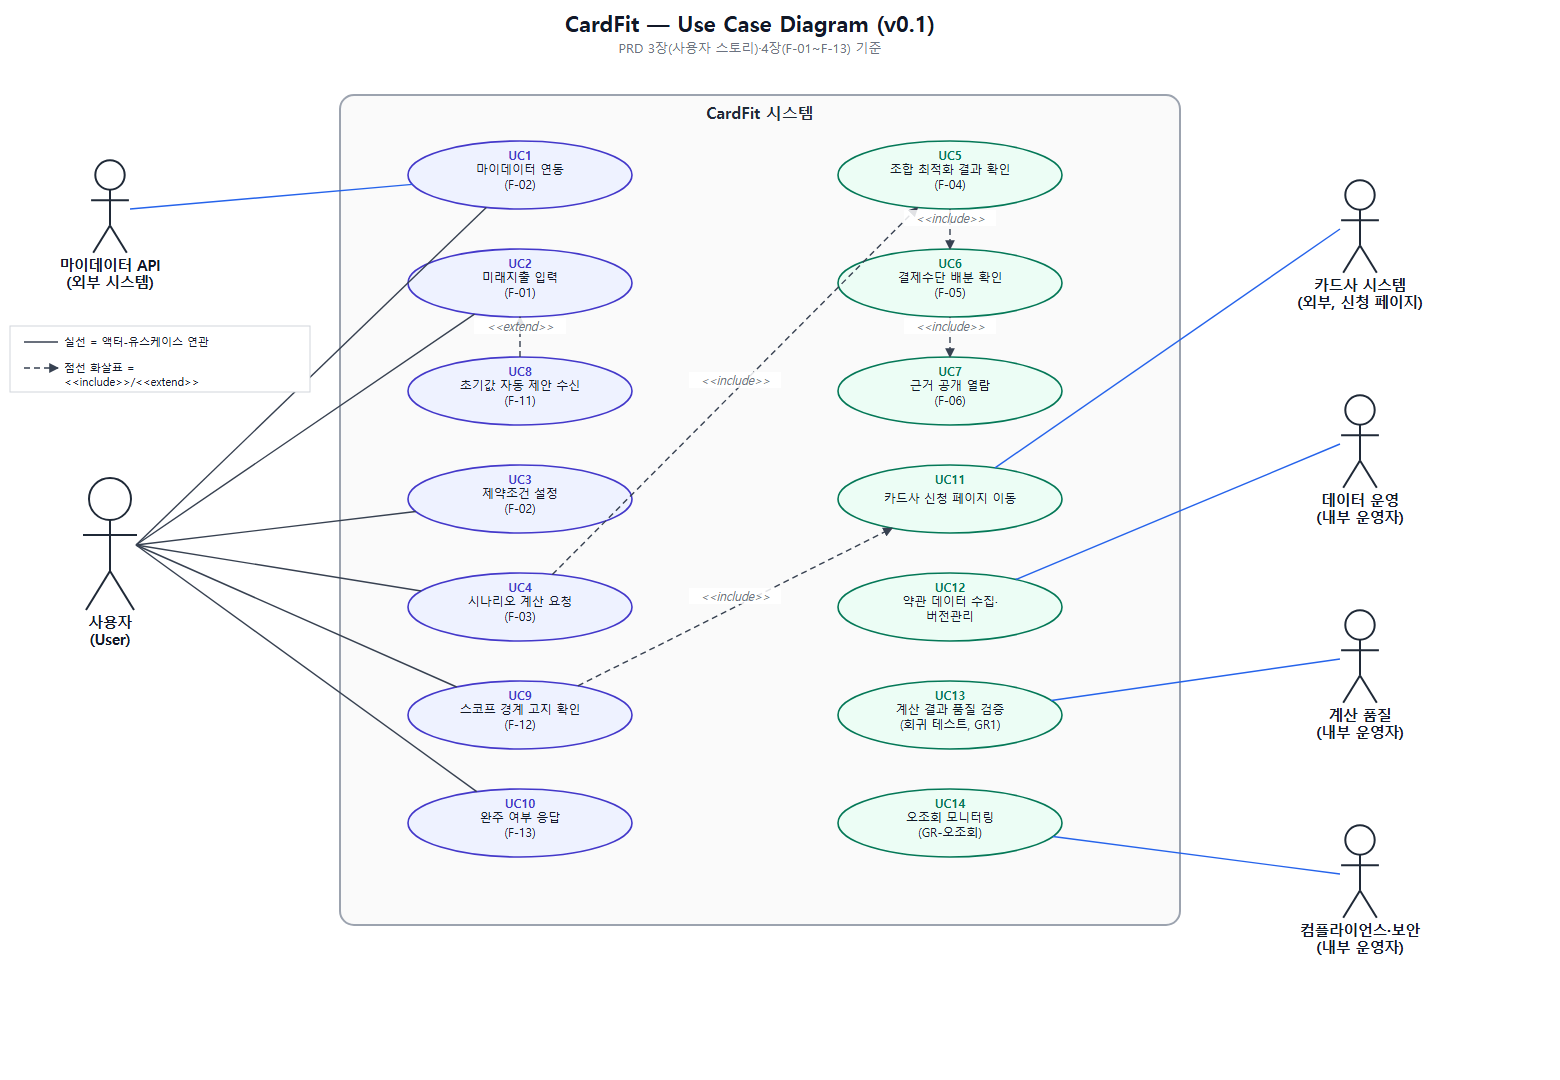
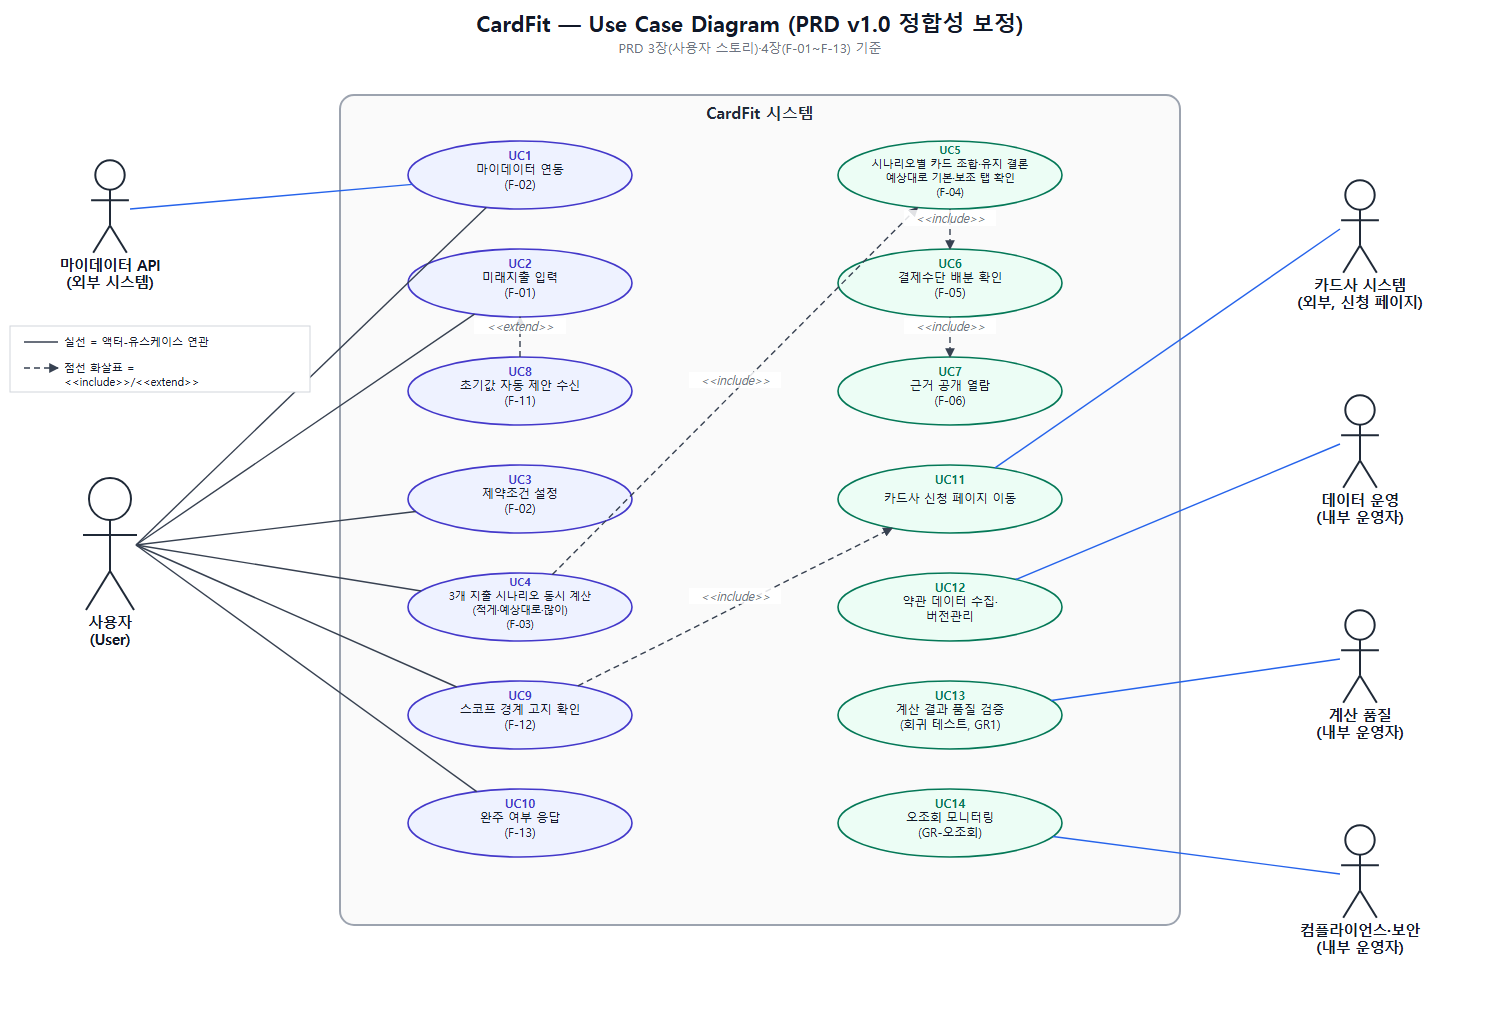
docs: align PRD diagrams with scenario model

diff --git a/PRD_CardFit_v1.0.md b/PRD_CardFit_v1.0.md
@@ -120,9 +120,10 @@ journey
       서비스 인지: 3: 이서연
     section 입력·계산
       온보딩·입력 (F-01·F-02): 2: 이서연
-      계산 결과·근거 확인 (F-03·F-06): 4: 이서연
+      3개 시나리오 동시 계산 (F-03): 4: 이서연
     section 결정·실행
-      신규카드 포함안 비교 (F-04): 3: 이서연
+      예상대로 기본·보조 탭 비교 (F-04): 3: 이서연
+      시나리오별 근거 확인 (F-06): 4: 이서연
       실행 - 스코프 경계: 3: 이서연
     section 이후
       다음 달 실제 혜택 확인: 5: 이서연
@@ -145,7 +146,7 @@ journey
 
 ### Use Case Diagram
 
-아래 4장(기능 요구사항)의 F-01~F-13과 3장 사용자 스토리(US-A~US-F)를 액터·유스케이스 관계로 정리한 다이어그램이다. 실선은 액터-유스케이스 연관, 점선 화살표는 `<<include>>`/`<<extend>>` 관계를 의미한다.
+아래 4장(기능 요구사항)의 F-01~F-13과 3장 사용자 스토리(US-A~US-F)를 액터·유스케이스 관계로 정리한 다이어그램이다. UC4는 3개 지출 시나리오의 동시 계산, UC5는 시나리오별 독립 카드 조합·유지 결론과 탭 확인을 나타낸다. 실선은 액터-유스케이스 연관, 점선 화살표는 `<<include>>`/`<<extend>>` 관계를 의미한다.
 
 ![CardFit Use Case Diagram](diagrams/usecase_diagram_cardfit_v0.1.png)
 
@@ -268,6 +269,80 @@ journey
 
 ```mermaid
 erDiagram
+    User {
+        string user_id PK
+        string mydata_consent_status
+        string mydata_consent_scope
+        datetime consented_at
+    }
+    HeldCard {
+        string card_id PK
+        string issuer
+        string card_name
+        decimal annual_fee
+        date issued_at
+        int billing_cycle_month
+    }
+    PastSpend {
+        string spend_id PK
+        string merchant
+        string mcc_code
+        decimal amount
+        date paid_at
+    }
+    FutureSpendPlan {
+        string plan_id PK
+        string category
+        decimal amount_min
+        decimal amount_max
+        date planned_at
+        string confidence
+    }
+    Constraint {
+        string constraint_id PK
+        int max_card_count
+        decimal annual_fee_cap
+        boolean allow_new_issuance
+    }
+    BenefitRule {
+        string rule_id PK
+        decimal performance_threshold
+        decimal benefit_cap
+        string excluded_items
+        date effective_from
+        date effective_to
+        string rule_version
+    }
+    Calculation {
+        string calculation_id PK
+        string scenario
+        decimal expected_total_spend
+        string calculation_period
+        string input_snapshot
+        string rule_versions
+        date data_as_of
+        string status
+    }
+    PlanCandidate {
+        string candidate_id PK
+        string card_combination
+        decimal gross_benefit
+        decimal transition_cost
+        decimal net_benefit
+        boolean threshold_passed
+    }
+    Allocation {
+        string allocation_id PK
+        string category
+        decimal allocated_amount
+    }
+    OutcomeLog {
+        string outcome_id PK
+        string selected_scenario
+        datetime selected_at
+        string completion_status
+        datetime responded_at
+    }
     User ||--o{ HeldCard : "마이데이터 수집"
     User ||--o{ PastSpend : "마이데이터 수집"
     User ||--o{ FutureSpendPlan : "직접 입력"
@@ -279,6 +354,8 @@ erDiagram
     PlanCandidate ||--o{ Allocation : "배분 산출"
     PlanCandidate ||--o| OutcomeLog : "선택·완주 계측"
 ```
+
+> ERD 상자에는 구현·검증에 필요한 주요 필드를 함께 표시한다. `Calculation.scenario`는 `LOW`·`EXPECTED`·`HIGH` 중 하나이며, `calculation_period`와 시나리오별 증감 산식은 D5 확정 후 구체 타입·제약조건을 고정한다.
 
 | 엔터티 | 주요 필드 | 출처 |
 | --- | --- | --- |
